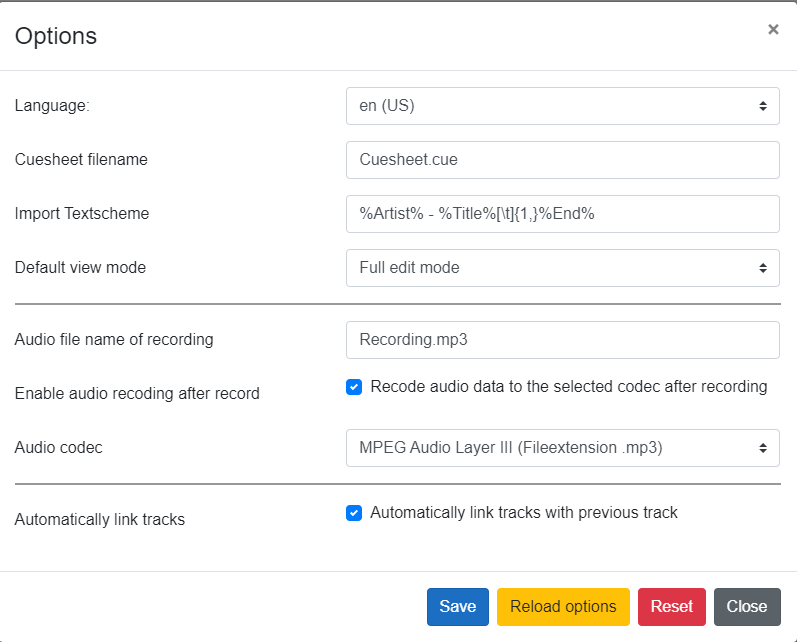
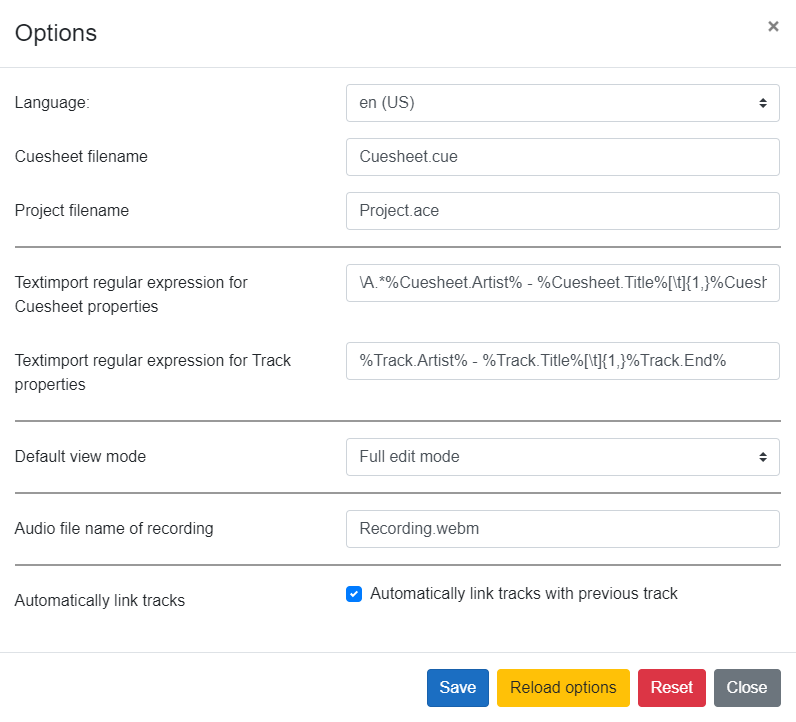
Removed all code for audio recoding (ffmpeg wasm is experimental currently)

diff --git a/AudioCuesheetEditor/Model/Options/ApplicationOptions.cs b/AudioCuesheetEditor/Model/Options/ApplicationOptions.cs
@@ -105,21 +105,9 @@ namespace AudioCuesheetEditor.Model.Options
             {
                 TextImportScheme = TextImportScheme.DefaultTextImportScheme;
             }
-            if (AudioCodec == null)
-            {
-                AudioCodec = AudioFile.AudioCodecs.Single(x => x.Name == "AudioCodec MP3");
-                RecodeAudioRecording = true;
-            }
             if (String.IsNullOrEmpty(AudioFileNameRecording) == true)
             {
-                if (AudioCodec != null)
-                {
-                    AudioFileNameRecording = String.Format("{0}{1}", AudioFile.RecordingFileName, AudioCodec.FileExtension);
-                }
-                else
-                {
-                    AudioFileNameRecording = AudioFile.RecordingFileName;
-                }
+                AudioFileNameRecording = AudioFile.RecordingFileName;
             }
             if (LinkTracksWithPreviousOne.HasValue == false)
             {
@@ -156,29 +144,6 @@ namespace AudioCuesheetEditor.Model.Options
             get { return Enum.GetName(typeof(ViewMode), ViewMode); }
             set { ViewMode = (ViewMode)Enum.Parse(typeof(ViewMode), value); }
         }
-        [JsonIgnore]
-        public AudioCodec AudioCodec { get; set; }
-        public String AudioCodecName
-        {
-            get 
-            { 
-                if (AudioCodec != null)
-                {
-                    return AudioCodec.Name;
-                }
-                else
-                {
-                    return null;
-                }
-            }
-            set 
-            {
-                AudioCodec = AudioFile.AudioCodecs.Single(x => x.Name == value);
-                //Fire update for audio file name recording
-                AudioFileNameRecording = audioFileNameRecording;
-            }
-        }
-        public Boolean RecodeAudioRecording { get; set; }
         public String AudioFileNameRecording 
         {
             get { return audioFileNameRecording; }
@@ -186,17 +151,14 @@ namespace AudioCuesheetEditor.Model.Options
             {
                 if (String.IsNullOrEmpty(value) == false)
                 {
-                    if (AudioCodec != null)
+                    var extension = Path.GetExtension(value);
+                    if ((String.IsNullOrEmpty(extension)) || (extension.Equals(AudioFile.AudioCodecWEBM.FileExtension, StringComparison.OrdinalIgnoreCase) == false))
                     {
-                        var extension = Path.GetExtension(value);
-                        if ((String.IsNullOrEmpty(extension)) || (extension.Equals(AudioCodec.FileExtension, StringComparison.OrdinalIgnoreCase) == false))
-                        {
-                            audioFileNameRecording = String.Format("{0}{1}", Path.GetFileNameWithoutExtension(value), AudioCodec.FileExtension);
-                        }
-                        else
-                        {
-                            audioFileNameRecording = value;
-                        }
+                        audioFileNameRecording = String.Format("{0}{1}", Path.GetFileNameWithoutExtension(value), AudioFile.AudioCodecWEBM.FileExtension);
+                    }
+                    else
+                    {
+                        audioFileNameRecording = value;
                     }
                 }
                 else

diff --git a/AudioCuesheetEditor/Model/IO/Audio/AudioFile.cs b/AudioCuesheetEditor/Model/IO/Audio/AudioFile.cs
@@ -24,11 +24,12 @@ namespace AudioCuesheetEditor.Model.IO.Audio
 {
     public class AudioFile : IDisposable
     {
-        public static readonly String RecordingFileName = "Recording";
+        public static readonly String RecordingFileName = "Recording.webm";
+        public static readonly AudioCodec AudioCodecWEBM = new AudioCodec("audio/webm", ".webm", "AudioCodec WEBM");
 
         public static readonly List<AudioCodec> AudioCodecs = new List<AudioCodec>()
         {
-            new AudioCodec("audio/webm", ".webm", "AudioCodec WEBM"),
+            AudioCodecWEBM,
             new AudioCodec("audio/mpeg", ".mp3", "AudioCodec MP3"),
             new AudioCodec("audio/ogg", ".oga", "AudioCodec OGA"),
             new AudioCodec("audio/ogg", ".ogg", "AudioCodec OGG"),

diff --git a/AudioCuesheetEditor/Model/AudioCuesheet/Cuesheet.cs b/AudioCuesheetEditor/Model/AudioCuesheet/Cuesheet.cs
@@ -63,7 +63,7 @@ namespace AudioCuesheetEditor.Model.AudioCuesheet
             { 
                 if (value == null)
                 {
-                    throw new ArgumentNullException();
+                    throw new ArgumentNullException(nameof(Tracks));
                 }
                 tracks = value.ToList(); 
             }
